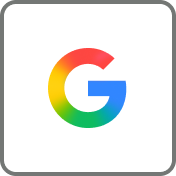
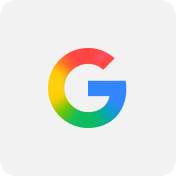
fix(auth): restore compliant provider artwork

Changed region(s): [[0.0, 0.0, 1.0, 1.0]]

diff --git a/src/ui/components/account-provider-button.tsx b/src/ui/components/account-provider-button.tsx
@@ -5,18 +5,15 @@ import {
   StyleSheet,
   View,
   type ImageSourcePropType,
-  type ImageStyle,
-  type StyleProp,
 } from 'react-native';
 
-import { colors, controlHeights, radii, shadows } from '@/ui/tokens';
+import { colors, controlHeights, radii } from '@/ui/tokens';
 
 type Props = {
   asset: ImageSourcePropType;
   disabled?: boolean;
   label: string;
   loading?: boolean;
-  logoStyle: StyleProp<ImageStyle>;
   onPress: () => void;
 };
 
@@ -25,7 +22,6 @@ export function AccountProviderButton({
   disabled = false,
   label,
   loading = false,
-  logoStyle,
   onPress,
 }: Props) {
   const inactive = disabled || loading;
@@ -37,6 +33,7 @@ export function AccountProviderButton({
       accessibilityHint="Connect your Pilly Plus account"
       accessibilityState={{ busy: loading, disabled: inactive }}
       disabled={inactive}
+      hitSlop={6}
       onPress={onPress}
       style={({ pressed }) => [
         styles.button,
@@ -44,14 +41,13 @@ export function AccountProviderButton({
         inactive && styles.disabled,
       ]}
     >
-      <View accessible={false} style={styles.logoWindow}>
-        <Image
-          accessibilityIgnoresInvertColors
-          resizeMode="contain"
-          source={asset}
-          style={logoStyle}
-        />
-      </View>
+      <Image
+        accessibilityIgnoresInvertColors
+        accessible={false}
+        resizeMode="contain"
+        source={asset}
+        style={styles.asset}
+      />
       {loading ? (
         <View accessible={false} style={styles.loading}>
           <ActivityIndicator color={colors.brand} />
@@ -63,21 +59,15 @@ export function AccountProviderButton({
 
 const styles = StyleSheet.create({
   button: {
-    width: controlHeights.large,
-    height: controlHeights.large,
+    width: controlHeights.compact,
+    height: controlHeights.compact,
     borderRadius: radii.round,
     alignItems: 'center',
     justifyContent: 'center',
     backgroundColor: colors.surface,
-    ...shadows.soft,
-  },
-  logoWindow: {
-    width: 30,
-    height: 30,
     overflow: 'hidden',
-    alignItems: 'center',
-    justifyContent: 'center',
   },
+  asset: { width: controlHeights.compact, height: controlHeights.compact },
   loading: {
     position: 'absolute',
     inset: 0,

diff --git a/src/ui/components/google-sign-in-button.tsx b/src/ui/components/google-sign-in-button.tsx
@@ -1,5 +1,3 @@
-import { StyleSheet } from 'react-native';
-
 import { AccountProviderButton } from '@/ui/components/account-provider-button';
 
 type GoogleSignInButtonProps = {
@@ -21,12 +19,7 @@ export function GoogleSignInButton({
       disabled={disabled}
       label="Continue with Google"
       loading={loading}
-      logoStyle={styles.logo}
       onPress={onPress}
     />
   );
 }
-
-const styles = StyleSheet.create({
-  logo: { width: 60, height: 60 },
-});

diff --git a/src/ui/components/apple-sign-in-button.tsx b/src/ui/components/apple-sign-in-button.tsx
@@ -39,13 +39,11 @@ export function AppleSignInButton({
       disabled={disabled}
       label="Continue with Apple"
       loading={loading}
-      logoStyle={styles.logo}
       onPress={onPress}
     />
   );
 }
 
 const styles = StyleSheet.create({
-  button: { width: controlHeights.large, height: controlHeights.large },
-  logo: { width: 84, height: 84 },
+  button: { width: controlHeights.compact, height: controlHeights.compact },
 });
